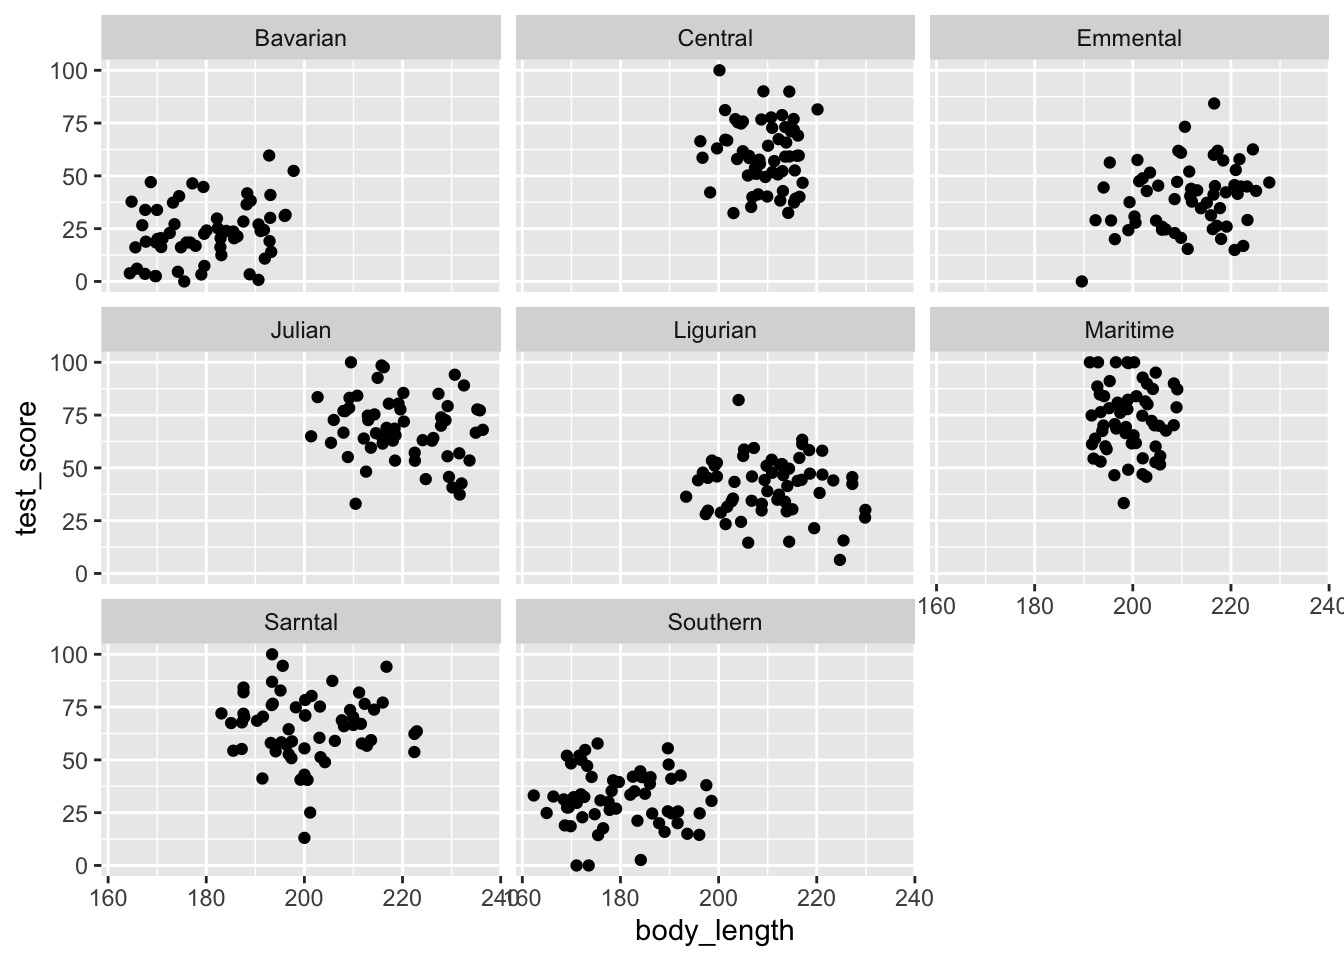
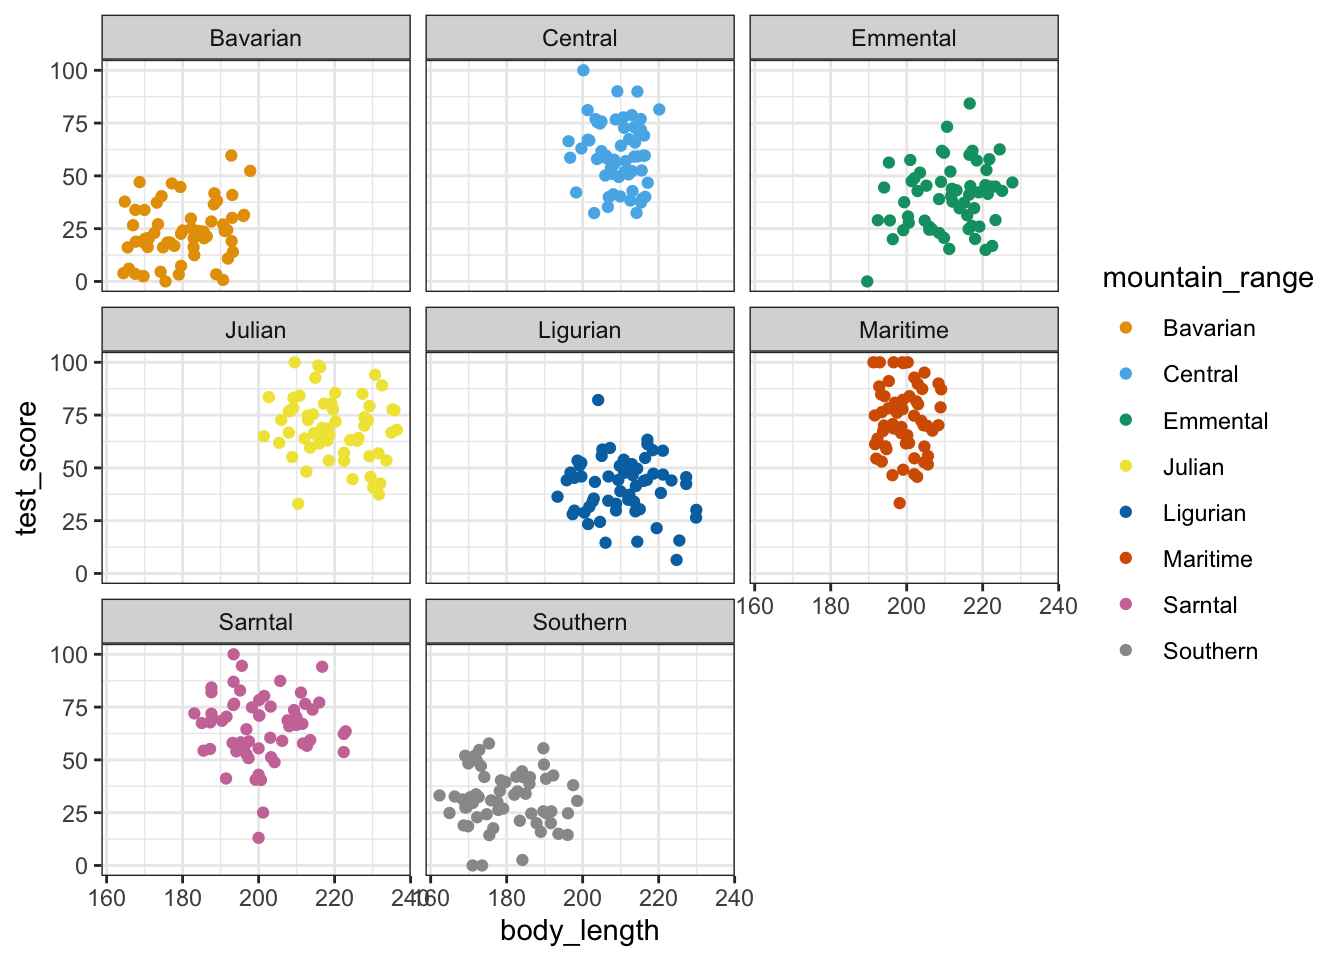
some color themes to mixed models

diff --git a/docs/stat-modeling-mixed.html b/docs/stat-modeling-mixed.html
@@ -406,7 +406,7 @@ code span.wa { color: #60a0b0; font-weight: bold; font-style: italic; } /* Warni
 <div class="cell">
 <div class="sourceCode" id="cb3"><pre class="downlit sourceCode r code-with-copy"><code class="sourceCode R"><span><span class="fu">ggplot</span><span class="op">(</span><span class="va">dragons_tbl</span>, <span class="fu">aes</span><span class="op">(</span><span class="va">test_score</span><span class="op">)</span><span class="op">)</span> <span class="op">+</span></span>
 <span>  <span class="fu">geom_histogram</span><span class="op">(</span><span class="op">)</span> <span class="op">+</span></span>
-<span>  <span class="fu">theme_bw</span><span class="op">(</span><span class="op">)</span> <span class="op">+</span> <span class="fu">scale_fill_brewer</span><span class="op">(</span>palette <span class="op">=</span> <span class="st">"Dark2"</span><span class="op">)</span></span></code><button title="In die Zwischenablage kopieren" class="code-copy-button"><i class="bi"></i></button></pre></div>
+<span>  <span class="fu">theme_bw</span><span class="op">(</span><span class="op">)</span> </span></code><button title="In die Zwischenablage kopieren" class="code-copy-button"><i class="bi"></i></button></pre></div>
 <div class="cell-output cell-output-stderr">
 <pre><code>`stat_bin()` using `bins = 30`. Pick better value with `binwidth`.</code></pre>
 </div>
@@ -442,7 +442,8 @@ F-statistic: 86.246 on 1 and 478 DF,  p-value: &lt; 0.000000000000000222</code><
 <div class="sourceCode" id="cb7"><pre class="downlit sourceCode r code-with-copy"><code class="sourceCode R"><span><span class="fu">ggplot</span><span class="op">(</span><span class="va">dragons_tbl</span>, <span class="fu">aes</span><span class="op">(</span>x <span class="op">=</span> <span class="va">body_length</span>, y <span class="op">=</span> <span class="va">test_score</span><span class="op">)</span><span class="op">)</span> <span class="op">+</span></span>
 <span>  <span class="fu">geom_point</span><span class="op">(</span><span class="op">)</span> <span class="op">+</span></span>
 <span>  <span class="fu">geom_smooth</span><span class="op">(</span>method <span class="op">=</span> <span class="st">"lm"</span><span class="op">)</span> <span class="op">+</span></span>
-<span>  <span class="fu">theme_bw</span><span class="op">(</span><span class="op">)</span> </span></code><button title="In die Zwischenablage kopieren" class="code-copy-button"><i class="bi"></i></button></pre></div>
+<span>  <span class="fu">theme_bw</span><span class="op">(</span><span class="op">)</span> <span class="op">+</span></span>
+<span>  <span class="fu">scale_color_okabeito</span><span class="op">(</span><span class="op">)</span></span></code><button title="In die Zwischenablage kopieren" class="code-copy-button"><i class="bi"></i></button></pre></div>
 <div class="cell-output cell-output-stderr">
 <pre><code>`geom_smooth()` using formula 'y ~ x'</code></pre>
 </div>
@@ -455,7 +456,8 @@ F-statistic: 86.246 on 1 and 478 DF,  p-value: &lt; 0.000000000000000222</code><
 <span>  <span class="fu">ggplot</span><span class="op">(</span><span class="fu">aes</span><span class="op">(</span>x <span class="op">=</span> <span class="va">.fitted</span>, y <span class="op">=</span> <span class="va">.resid</span><span class="op">)</span><span class="op">)</span> <span class="op">+</span> </span>
 <span>  <span class="fu">geom_point</span><span class="op">(</span><span class="op">)</span> <span class="op">+</span></span>
 <span>  <span class="fu">geom_hline</span><span class="op">(</span>yintercept <span class="op">=</span> <span class="fl">0</span>, color <span class="op">=</span> <span class="st">"red"</span><span class="op">)</span> <span class="op">+</span></span>
-<span>  <span class="fu">theme_bw</span><span class="op">(</span><span class="op">)</span></span></code><button title="In die Zwischenablage kopieren" class="code-copy-button"><i class="bi"></i></button></pre></div>
+<span>  <span class="fu">theme_bw</span><span class="op">(</span><span class="op">)</span> <span class="op">+</span></span>
+<span>  <span class="fu">scale_color_okabeito</span><span class="op">(</span><span class="op">)</span></span></code><button title="In die Zwischenablage kopieren" class="code-copy-button"><i class="bi"></i></button></pre></div>
 <div class="cell-output-display">
 <p><img src="stat-modeling-mixed_files/figure-html/unnamed-chunk-7-1.png" class="img-fluid" width="672"></p>
 </div>
@@ -474,7 +476,7 @@ F-statistic: 86.246 on 1 and 478 DF,  p-value: &lt; 0.000000000000000222</code><
 <span>  <span class="fu">geom_boxplot</span><span class="op">(</span><span class="op">)</span> <span class="op">+</span></span>
 <span>  <span class="fu">theme_bw</span><span class="op">(</span><span class="op">)</span> <span class="op">+</span></span>
 <span>  <span class="fu">theme</span><span class="op">(</span>legend.position <span class="op">=</span> <span class="st">"none"</span><span class="op">)</span> <span class="op">+</span></span>
-<span>  <span class="fu">scale_color_okabeito</span><span class="op">(</span><span class="op">)</span></span></code><button title="In die Zwischenablage kopieren" class="code-copy-button"><i class="bi"></i></button></pre></div>
+<span>  <span class="fu">scale_fill_okabeito</span><span class="op">(</span><span class="op">)</span></span></code><button title="In die Zwischenablage kopieren" class="code-copy-button"><i class="bi"></i></button></pre></div>
 <div class="cell-output-display">
 <p><img src="stat-modeling-mixed_files/figure-html/unnamed-chunk-9-1.png" class="img-fluid" width="672"></p>
 </div>
@@ -490,9 +492,11 @@ F-statistic: 86.246 on 1 and 478 DF,  p-value: &lt; 0.000000000000000222</code><
 </div>
 </div>
 <div class="cell">
-<div class="sourceCode" id="cb13"><pre class="downlit sourceCode r code-with-copy"><code class="sourceCode R"><span><span class="fu">ggplot</span><span class="op">(</span><span class="va">dragons_tbl</span>, <span class="fu">aes</span><span class="op">(</span><span class="va">body_length</span>, <span class="va">test_score</span><span class="op">)</span><span class="op">)</span> <span class="op">+</span> </span>
+<div class="sourceCode" id="cb13"><pre class="downlit sourceCode r code-with-copy"><code class="sourceCode R"><span><span class="fu">ggplot</span><span class="op">(</span><span class="va">dragons_tbl</span>, <span class="fu">aes</span><span class="op">(</span><span class="va">body_length</span>, <span class="va">test_score</span>, color <span class="op">=</span> <span class="va">mountain_range</span><span class="op">)</span><span class="op">)</span> <span class="op">+</span> </span>
+<span>  <span class="fu">theme_bw</span><span class="op">(</span><span class="op">)</span> <span class="op">+</span></span>
 <span>  <span class="fu">geom_point</span><span class="op">(</span><span class="op">)</span> <span class="op">+</span> </span>
-<span>  <span class="fu">facet_wrap</span><span class="op">(</span><span class="op">~</span> <span class="va">mountain_range</span><span class="op">)</span> </span></code><button title="In die Zwischenablage kopieren" class="code-copy-button"><i class="bi"></i></button></pre></div>
+<span>  <span class="fu">facet_wrap</span><span class="op">(</span><span class="op">~</span> <span class="va">mountain_range</span><span class="op">)</span> <span class="op">+</span></span>
+<span>  <span class="fu">scale_color_okabeito</span><span class="op">(</span><span class="op">)</span></span></code><button title="In die Zwischenablage kopieren" class="code-copy-button"><i class="bi"></i></button></pre></div>
 <div class="cell-output-display">
 <p><img src="stat-modeling-mixed_files/figure-html/unnamed-chunk-11-1.png" class="img-fluid" width="672"></p>
 </div>
@@ -563,7 +567,8 @@ body_length -0.924</code></pre>
 <span>  <span class="fu">ggplot</span><span class="op">(</span><span class="fu">aes</span><span class="op">(</span>x <span class="op">=</span> <span class="va">.fitted</span>, y <span class="op">=</span> <span class="va">.resid</span><span class="op">)</span><span class="op">)</span> <span class="op">+</span> </span>
 <span>  <span class="fu">geom_point</span><span class="op">(</span><span class="op">)</span> <span class="op">+</span></span>
 <span>  <span class="fu">geom_hline</span><span class="op">(</span>yintercept <span class="op">=</span> <span class="fl">0</span>, color <span class="op">=</span> <span class="st">"red"</span><span class="op">)</span> <span class="op">+</span></span>
-<span>  <span class="fu">theme_bw</span><span class="op">(</span><span class="op">)</span></span></code><button title="In die Zwischenablage kopieren" class="code-copy-button"><i class="bi"></i></button></pre></div>
+<span>  <span class="fu">theme_bw</span><span class="op">(</span><span class="op">)</span> <span class="op">+</span></span>
+<span>  <span class="fu">scale_color_okabeito</span><span class="op">(</span><span class="op">)</span></span></code><button title="In die Zwischenablage kopieren" class="code-copy-button"><i class="bi"></i></button></pre></div>
 <div class="cell-output-display">
 <p><img src="stat-modeling-mixed_files/figure-html/unnamed-chunk-14-1.png" class="img-fluid" width="672"></p>
 </div>
@@ -622,9 +627,11 @@ Model failed to converge: degenerate  Hessian with 1 negative eigenvalues</code>
 <div class="cell">
 <div class="sourceCode" id="cb25"><pre class="downlit sourceCode r code-with-copy"><code class="sourceCode R"><span><span class="fu">ggplot</span><span class="op">(</span><span class="va">dragons_tbl</span>, <span class="fu">aes</span><span class="op">(</span>x <span class="op">=</span> <span class="va">body_length</span>, y <span class="op">=</span> <span class="va">test_score</span>, colour <span class="op">=</span> <span class="va">site</span><span class="op">)</span><span class="op">)</span> <span class="op">+</span></span>
 <span>  <span class="fu">facet_wrap</span><span class="op">(</span><span class="op">~</span><span class="va">mountain_range</span>, nrow<span class="op">=</span><span class="fl">3</span><span class="op">)</span> <span class="op">+</span></span>
+<span>  <span class="fu">theme_bw</span><span class="op">(</span><span class="op">)</span> <span class="op">+</span></span>
 <span>  <span class="fu">geom_point</span><span class="op">(</span><span class="op">)</span> <span class="op">+</span></span>
 <span>  <span class="fu">geom_line</span><span class="op">(</span>data <span class="op">=</span> <span class="fu"><a href="https://rdrr.io/r/base/cbind.html">cbind</a></span><span class="op">(</span><span class="va">dragons_tbl</span>, pred <span class="op">=</span> <span class="fu"><a href="https://rdrr.io/r/stats/predict.html">predict</a></span><span class="op">(</span><span class="va">lmer_2_fit</span><span class="op">)</span><span class="op">)</span>, <span class="fu">aes</span><span class="op">(</span>y <span class="op">=</span> <span class="va">pred</span><span class="op">)</span><span class="op">)</span> <span class="op">+</span></span>
-<span>  <span class="fu">theme</span><span class="op">(</span>legend.position <span class="op">=</span> <span class="st">"none"</span><span class="op">)</span></span></code><button title="In die Zwischenablage kopieren" class="code-copy-button"><i class="bi"></i></button></pre></div>
+<span>  <span class="fu">theme</span><span class="op">(</span>legend.position <span class="op">=</span> <span class="st">"none"</span><span class="op">)</span> <span class="op">+</span></span>
+<span>  <span class="fu">scale_color_okabeito</span><span class="op">(</span><span class="op">)</span> </span></code><button title="In die Zwischenablage kopieren" class="code-copy-button"><i class="bi"></i></button></pre></div>
 <div class="cell-output-display">
 <p><img src="stat-modeling-mixed_files/figure-html/unnamed-chunk-17-1.png" class="img-fluid" width="672"></p>
 </div>
